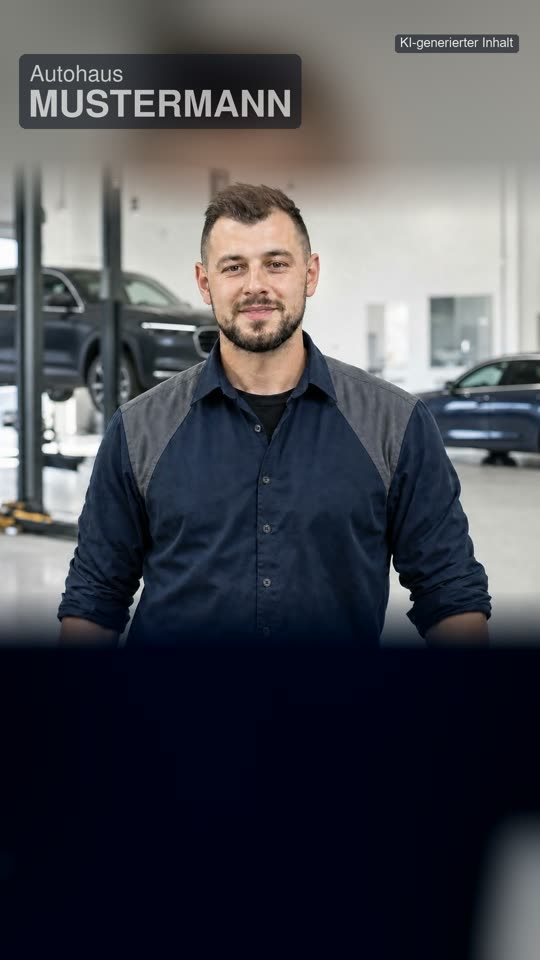
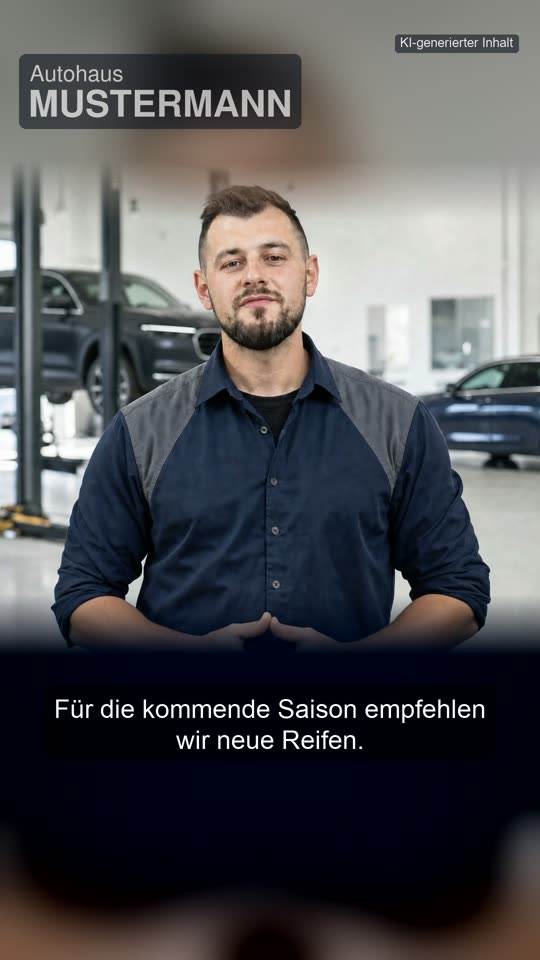
KI-Medien: Standbilder einheitlich mit ganzem Satz, Kommentar neutral

diff --git a/index.html b/index.html
@@ -266,7 +266,7 @@
 </div>
 </div>
 <div class="medien-galerie">
-<!-- Zwei Reihen, seit 31.10.2026 Comic und realistische Figuren im Wechsel (team-clip aus mi-tool-medien, hoch, damit kein Fahrzeug als BMW erkennbar ist) -->
+<!-- Zwei Reihen, seit 31.10.2026 Comic und realistische Figuren im Wechsel (team-clip aus mi-tool-medien, Hochformat, ohne erkennbare Fahrzeugmarke) -->
 <figure><video class="hoch" aria-label="Short So spricht Ihre Werkstatt: Meister als Rahmen, zwei Musterclips" controls playsinline preload="none" poster="assets/medien/ki-medien-werkstatt-spricht-20261028.jpg" width="540" height="960"><source src="assets/medien/ki-medien-werkstatt-spricht-20261028.mp4" type="video/mp4"></video><figcaption>So spricht Ihre Werkstatt: zwei Musterclips mit Rahmen, hoch für Smartphone und YouTube</figcaption></figure>
 <figure><video class="hoch" aria-label="Realistische Figur: Serviceberaterin erinnert an den Online-Check-in" controls playsinline preload="none" poster="assets/medien/ki-medien-team-checkin-20261031.jpg" width="540" height="960"><source src="assets/medien/ki-medien-team-checkin-20261031.mp4" type="video/mp4"></video><figcaption>Realistische Figur: Die Serviceberaterin erinnert an den Online-Check-in</figcaption></figure>
 <figure><a href="assets/medien/ki-medien-werbebild-20261019.jpg"><img src="assets/medien/ki-medien-werbebild-20261019.jpg" width="850" height="1100" loading="lazy" alt="Werbebild mit KI-Figur neben einem Motorrad in der Werkstatt, Überschrift „Bereit für die Saison“"></a><figcaption>Werbebild Saisonstart</figcaption></figure>
